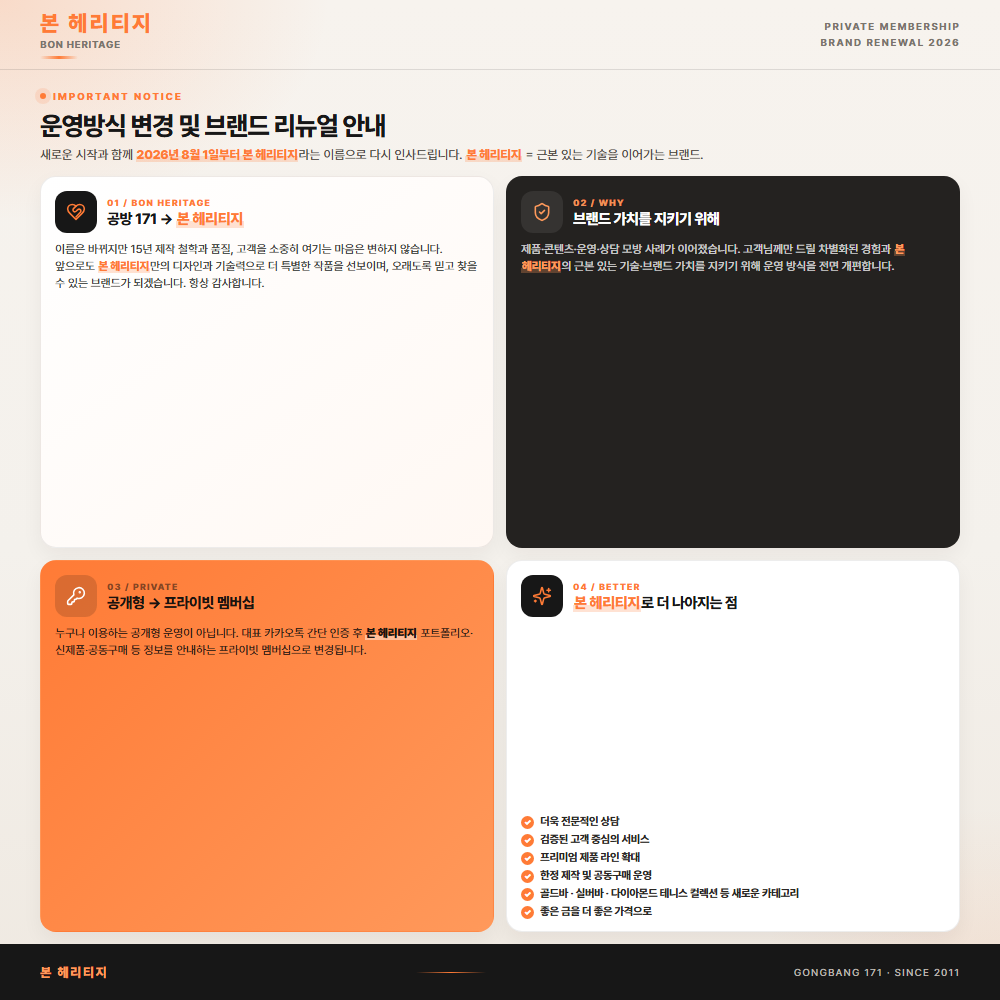
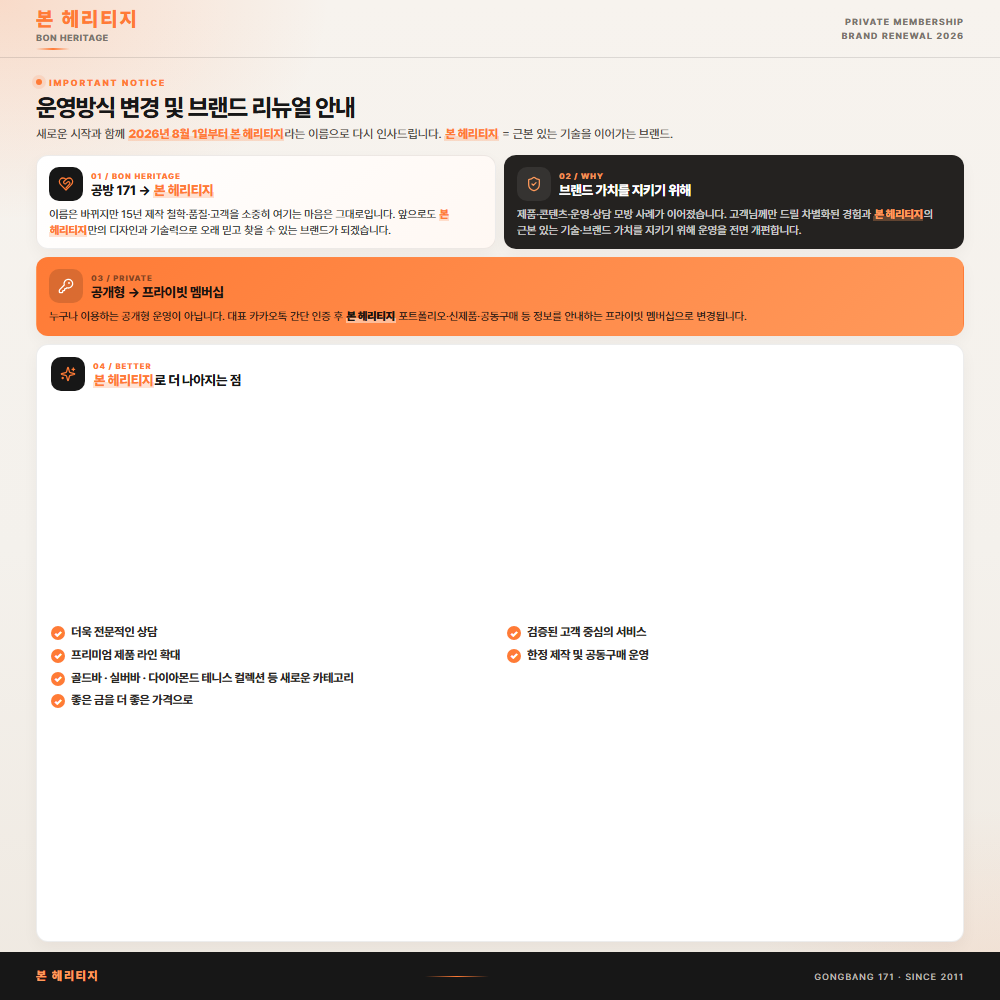
Tighten 1000x1000 poster cards to remove empty box space.

diff --git a/posters/renewal-1000.html b/posters/renewal-1000.html
@@ -53,53 +53,53 @@ body {
 }
 .top {
   flex: 0 0 auto;
-  height: 70px;
+  height: 58px;
   display: flex;
   align-items: center;
   justify-content: space-between;
-  padding: 0 40px;
+  padding: 0 36px;
   border-bottom: 1px solid var(--line);
 }
 .logo {
-  font-size: 22px;
+  font-size: 20px;
   font-weight: 900;
   letter-spacing: .1em;
   color: var(--orange);
 }
 .logo small {
   display: block;
-  margin-top: 2px;
-  font-size: 10px;
+  margin-top: 1px;
+  font-size: 9px;
   letter-spacing: .08em;
   color: var(--muted);
   font-weight: 700;
 }
 .logo span {
   display: block;
-  width: 38px;
-  height: 3px;
-  margin-top: 6px;
+  width: 34px;
+  height: 2px;
+  margin-top: 5px;
   border-radius: 99px;
   background: linear-gradient(90deg, transparent, var(--orange), transparent);
 }
 .issue {
   text-align: right;
-  font-size: 10px;
-  letter-spacing: .16em;
+  font-size: 9px;
+  letter-spacing: .14em;
   color: var(--muted);
-  line-height: 1.55;
+  line-height: 1.5;
   font-weight: 700;
 }
 .hero {
   flex: 0 0 auto;
-  padding: 14px 40px 8px;
+  padding: 12px 36px 8px;
 }
 .kicker {
   display: inline-flex;
   align-items: center;
   gap: 7px;
   color: var(--orange);
-  font-size: 10px;
+  font-size: 9px;
   font-weight: 800;
   letter-spacing: .2em;
 }
@@ -108,40 +108,42 @@ body {
   height: 6px;
   border-radius: 50%;
   background: var(--orange);
-  box-shadow: 0 0 0 5px rgba(255,123,54,.14);
+  box-shadow: 0 0 0 4px rgba(255,123,54,.14);
 }
 .hero h1 {
-  margin: 8px 0 5px;
-  font-size: 26px;
-  line-height: 1.15;
+  margin: 6px 0 4px;
+  font-size: 24px;
+  line-height: 1.12;
   letter-spacing: -.04em;
   font-weight: 800;
 }
 .hero p {
   margin: 0;
   color: #524d47;
-  font-size: 12.5px;
-  line-height: 1.48;
+  font-size: 12px;
+  line-height: 1.45;
   word-break: keep-all;
 }
-.grid {
+.main {
   flex: 1 1 auto;
   min-height: 0;
-  padding: 4px 40px 12px;
-  display: grid;
-  grid-template-columns: 1fr 1fr;
-  grid-template-rows: 1fr 1fr;
-  gap: 12px;
-}
-.sec {
-  min-height: 0;
-  padding: 14px 14px 12px;
-  border-radius: 16px;
-  border: 1px solid rgba(23,23,23,.08);
-  background: rgba(255,255,255,.74);
-  box-shadow: 0 8px 20px rgba(35,26,18,.05);
+  padding: 4px 36px 10px;
   display: flex;
   flex-direction: column;
+  gap: 8px;
+}
+.pair {
+  display: grid;
+  grid-template-columns: 1fr 1fr;
+  gap: 8px;
+  flex: 0 0 auto;
+}
+.sec {
+  padding: 11px 12px 10px;
+  border-radius: 12px;
+  border: 1px solid rgba(23,23,23,.08);
+  background: rgba(255,255,255,.78);
+  box-shadow: 0 6px 16px rgba(35,26,18,.045);
 }
 .sec.a { background: linear-gradient(145deg, #fff, #fff8f3); }
 .sec.b { background: #242220; color: #fff; border-color: transparent; }
@@ -154,17 +156,24 @@ body {
 }
 .sec.c .num { color: rgba(27,19,15,.55); }
 .sec.c .body { color: rgba(27,19,15,.9); }
-.sec.d { background: #fff; }
+.sec.d {
+  flex: 1 1 auto;
+  min-height: 0;
+  background: #fff;
+  display: flex;
+  flex-direction: column;
+  padding: 12px 14px;
+}
 .head {
   display: flex;
   align-items: center;
-  gap: 10px;
-  margin-bottom: 8px;
+  gap: 8px;
+  margin-bottom: 6px;
 }
 .icon-wrap {
-  width: 42px;
-  height: 42px;
-  border-radius: 12px;
+  width: 34px;
+  height: 34px;
+  border-radius: 10px;
   display: grid;
   place-items: center;
   background: #171717;
@@ -174,8 +183,8 @@ body {
 .sec.b .icon-wrap { background: rgba(255,255,255,.08); color: var(--orange2); }
 .sec.c .icon-wrap { background: rgba(27,19,15,.16); color: #fff; }
 .icon-wrap svg {
-  width: 20px;
-  height: 20px;
+  width: 16px;
+  height: 16px;
   stroke: currentColor;
   fill: none;
   stroke-width: 1.9;
@@ -183,52 +192,55 @@ body {
   stroke-linejoin: round;
 }
 .num {
-  font-size: 9px;
+  font-size: 8px;
   font-weight: 800;
-  letter-spacing: .14em;
+  letter-spacing: .12em;
   color: var(--orange);
-  margin-bottom: 2px;
+  margin-bottom: 1px;
 }
 h2 {
   margin: 0;
-  font-size: 15px;
+  font-size: 13.5px;
   letter-spacing: -.03em;
-  line-height: 1.22;
+  line-height: 1.2;
   font-weight: 800;
 }
 .body {
   margin: 0;
-  font-size: 11.5px;
-  line-height: 1.48;
+  font-size: 11px;
+  line-height: 1.42;
   color: #403d39;
   word-break: keep-all;
 }
 .checks {
   display: grid;
-  gap: 4px;
-  margin-top: auto;
-  padding-top: 6px;
+  grid-template-columns: 1fr 1fr;
+  gap: 7px 14px;
+  margin-top: 8px;
+  flex: 1;
+  align-content: center;
 }
 .check {
   display: flex;
   align-items: flex-start;
   gap: 6px;
-  font-size: 11px;
+  font-size: 12px;
   font-weight: 700;
   letter-spacing: -.02em;
-  line-height: 1.28;
+  line-height: 1.3;
   color: #2a2724;
 }
+.check.wide { grid-column: 1 / -1; }
 .check i {
   flex-shrink: 0;
-  width: 13px;
-  height: 13px;
+  width: 14px;
+  height: 14px;
   margin-top: 1px;
   border-radius: 50%;
   background: var(--orange);
   color: #fff;
   font-style: normal;
-  font-size: 8px;
+  font-size: 9px;
   font-weight: 900;
   display: grid;
   place-items: center;
@@ -236,24 +248,24 @@ h2 {
 }
 .foot {
   flex: 0 0 auto;
-  height: 56px;
+  height: 48px;
   display: flex;
   align-items: center;
   justify-content: space-between;
-  padding: 0 40px;
+  padding: 0 36px;
   background: #171717;
   color: #bdb7b1;
-  font-size: 10px;
+  font-size: 9px;
   letter-spacing: .14em;
 }
 .foot strong {
   color: var(--orange2);
-  font-size: 13px;
+  font-size: 12px;
   letter-spacing: .12em;
   font-weight: 900;
 }
 .foot .line {
-  width: 70px;
+  width: 64px;
   height: 1px;
   background: linear-gradient(90deg, transparent, var(--orange), transparent);
 }
@@ -272,32 +284,34 @@ h2 {
     <p>새로운 시작과 함께 <b class="brand">2026년 8월 1일부터 본 헤리티지</b>라는 이름으로 다시 인사드립니다. <b class="brand">본 헤리티지</b> = 근본 있는 기술을 이어가는 브랜드.</p>
   </section>
 
-  <div class="grid">
-    <article class="sec a">
-      <div class="head">
-        <div class="icon-wrap" aria-hidden="true">
-          <svg viewBox="0 0 24 24"><path d="M19 14c1.49-1.46 3-3.21 3-5.5A5.5 5.5 0 0 0 16.5 3c-1.76 0-3 .5-4.5 2-1.5-1.5-2.74-2-4.5-2A5.5 5.5 0 0 0 2 8.5c0 2.3 1.5 4.05 3 5.5l7 7Z"/><path d="M12 5 9.04 7.96a2.17 2.17 0 0 0 0 3.08c.82.82 2.13.85 3 .07l2.07-1.96a2.17 2.17 0 0 1 3.07 0 2.17 2.17 0 0 1 0 3.08L12 18"/></svg>
+  <div class="main">
+    <div class="pair">
+      <article class="sec a">
+        <div class="head">
+          <div class="icon-wrap" aria-hidden="true">
+            <svg viewBox="0 0 24 24"><path d="M19 14c1.49-1.46 3-3.21 3-5.5A5.5 5.5 0 0 0 16.5 3c-1.76 0-3 .5-4.5 2-1.5-1.5-2.74-2-4.5-2A5.5 5.5 0 0 0 2 8.5c0 2.3 1.5 4.05 3 5.5l7 7Z"/><path d="M12 5 9.04 7.96a2.17 2.17 0 0 0 0 3.08c.82.82 2.13.85 3 .07l2.07-1.96a2.17 2.17 0 0 1 3.07 0 2.17 2.17 0 0 1 0 3.08L12 18"/></svg>
+          </div>
+          <div>
+            <div class="num">01 / BON HERITAGE</div>
+            <h2>공방 171 → <span class="brand">본 헤리티지</span></h2>
+          </div>
         </div>
-        <div>
-          <div class="num">01 / BON HERITAGE</div>
-          <h2>공방 171 → <span class="brand">본 헤리티지</span></h2>
-        </div>
-      </div>
-      <p class="body">이름은 바뀌지만 15년 제작 철학과 품질, 고객을 소중히 여기는 마음은 변하지 않습니다. 앞으로도 <b class="brand">본 헤리티지</b>만의 디자인과 기술력으로 더 특별한 작품을 선보이며, 오래도록 믿고 찾을 수 있는 브랜드가 되겠습니다. 항상 감사합니다.</p>
-    </article>
+        <p class="body">이름은 바뀌지만 15년 제작 철학·품질·고객을 소중히 여기는 마음은 그대로입니다. 앞으로도 <b class="brand">본 헤리티지</b>만의 디자인과 기술력으로 오래 믿고 찾을 수 있는 브랜드가 되겠습니다.</p>
+      </article>
 
-    <article class="sec b">
-      <div class="head">
-        <div class="icon-wrap" aria-hidden="true">
-          <svg viewBox="0 0 24 24"><path d="M20 13c0 5-3.5 7.5-7.66 8.95a1 1 0 0 1-.67-.01C7.5 20.5 4 18 4 13V6a1 1 0 0 1 1-1c2 0 4.5-1.2 6.24-2.72a1.17 1.17 0 0 1 1.52 0C14.51 3.81 17 5 19 5a1 1 0 0 1 1 1z"/><path d="m9 12 2 2 4-4"/></svg>
+      <article class="sec b">
+        <div class="head">
+          <div class="icon-wrap" aria-hidden="true">
+            <svg viewBox="0 0 24 24"><path d="M20 13c0 5-3.5 7.5-7.66 8.95a1 1 0 0 1-.67-.01C7.5 20.5 4 18 4 13V6a1 1 0 0 1 1-1c2 0 4.5-1.2 6.24-2.72a1.17 1.17 0 0 1 1.52 0C14.51 3.81 17 5 19 5a1 1 0 0 1 1 1z"/><path d="m9 12 2 2 4-4"/></svg>
+          </div>
+          <div>
+            <div class="num">02 / WHY</div>
+            <h2>브랜드 가치를 지키기 위해</h2>
+          </div>
         </div>
-        <div>
-          <div class="num">02 / WHY</div>
-          <h2>브랜드 가치를 지키기 위해</h2>
-        </div>
-      </div>
-      <p class="body">제품·콘텐츠·운영·상담 모방 사례가 이어졌습니다. 고객님께만 드릴 차별화된 경험과 <b class="brand">본 헤리티지</b>의 근본 있는 기술·브랜드 가치를 지키기 위해 운영 방식을 전면 개편합니다.</p>
-    </article>
+        <p class="body">제품·콘텐츠·운영·상담 모방 사례가 이어졌습니다. 고객님께만 드릴 차별화된 경험과 <b class="brand">본 헤리티지</b>의 근본 있는 기술·브랜드 가치를 지키기 위해 운영을 전면 개편합니다.</p>
+      </article>
+    </div>
 
     <article class="sec c">
       <div class="head">
@@ -327,8 +341,8 @@ h2 {
         <div class="check"><i>✓</i><span>검증된 고객 중심의 서비스</span></div>
         <div class="check"><i>✓</i><span>프리미엄 제품 라인 확대</span></div>
         <div class="check"><i>✓</i><span>한정 제작 및 공동구매 운영</span></div>
-        <div class="check"><i>✓</i><span>골드바 · 실버바 · 다이아몬드 테니스 컬렉션 등 새로운 카테고리</span></div>
-        <div class="check"><i>✓</i><span>좋은 금을 더 좋은 가격으로</span></div>
+        <div class="check wide"><i>✓</i><span>골드바 · 실버바 · 다이아몬드 테니스 컬렉션 등 새로운 카테고리</span></div>
+        <div class="check wide"><i>✓</i><span>좋은 금을 더 좋은 가격으로</span></div>
       </div>
     </article>
   </div>
